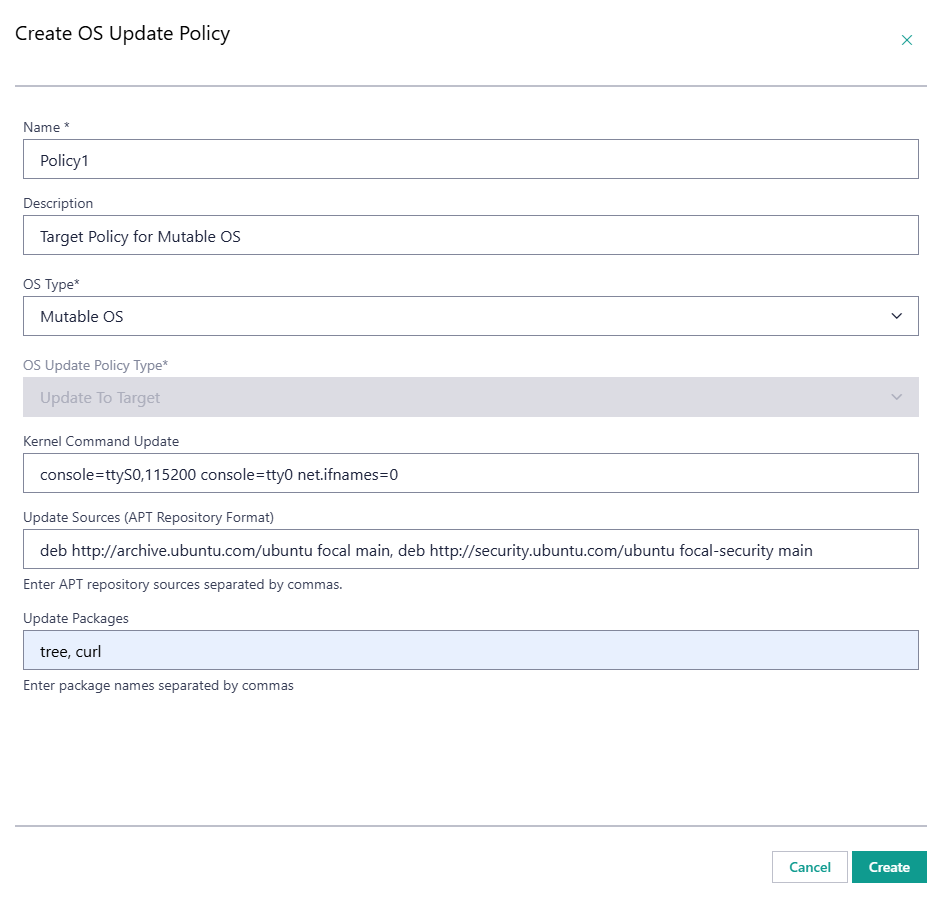
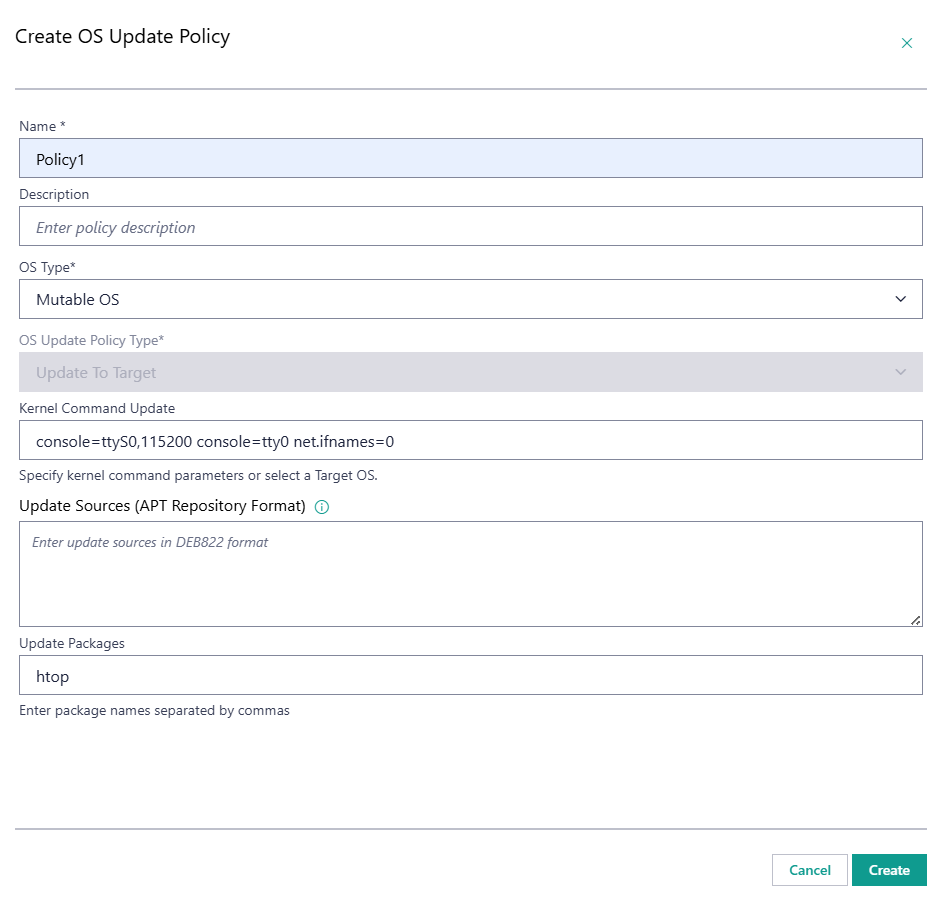
Fix documentation related to updates (#484)
* Fix documentation related to updates

* Update apply_new_os_update_policy.rst

---------

Pull request: Fix documentation related to updates
# PR Description

Describe the purpose of this pull request.

## Changes

List the changes you have made.

## Additional Information

Include any additional information, such as how to test your changes.

## Checklist

- [ ] Tests passed
- [ ] Documentation updated

diff --git a/docs/user_guide/advanced_functionality/apply_new_os_update_policy.rst b/docs/user_guide/advanced_functionality/apply_new_os_update_policy.rst
@@ -160,8 +160,8 @@ _________
 
 Mutable OS - OS update, no kernel command update and no new packages installation.
 
-.. figure:: images/os-update-policy_mutable_only_os.png
-        :alt: OS Update Policy - OS update example per mutable OS - no kernel command update and no new packages
+.. note::
+        No OS Update Policy is needed.
 
 Example 2
 _________

diff --git a/docs/user_guide/advanced_functionality/install_new_packages.rst b/docs/user_guide/advanced_functionality/install_new_packages.rst
@@ -63,7 +63,7 @@ you must provide a new APT source using the DEB822 Source Format.
[1 lines of base64/hex data omitted]
      MFw3quqJhQMRsA==
      =gbRM
-     -----END PGP PUBLIC KEY BLOCK---
+     -----END PGP PUBLIC KEY BLOCK----
 
 Create OS Update Policy
 ------------------------